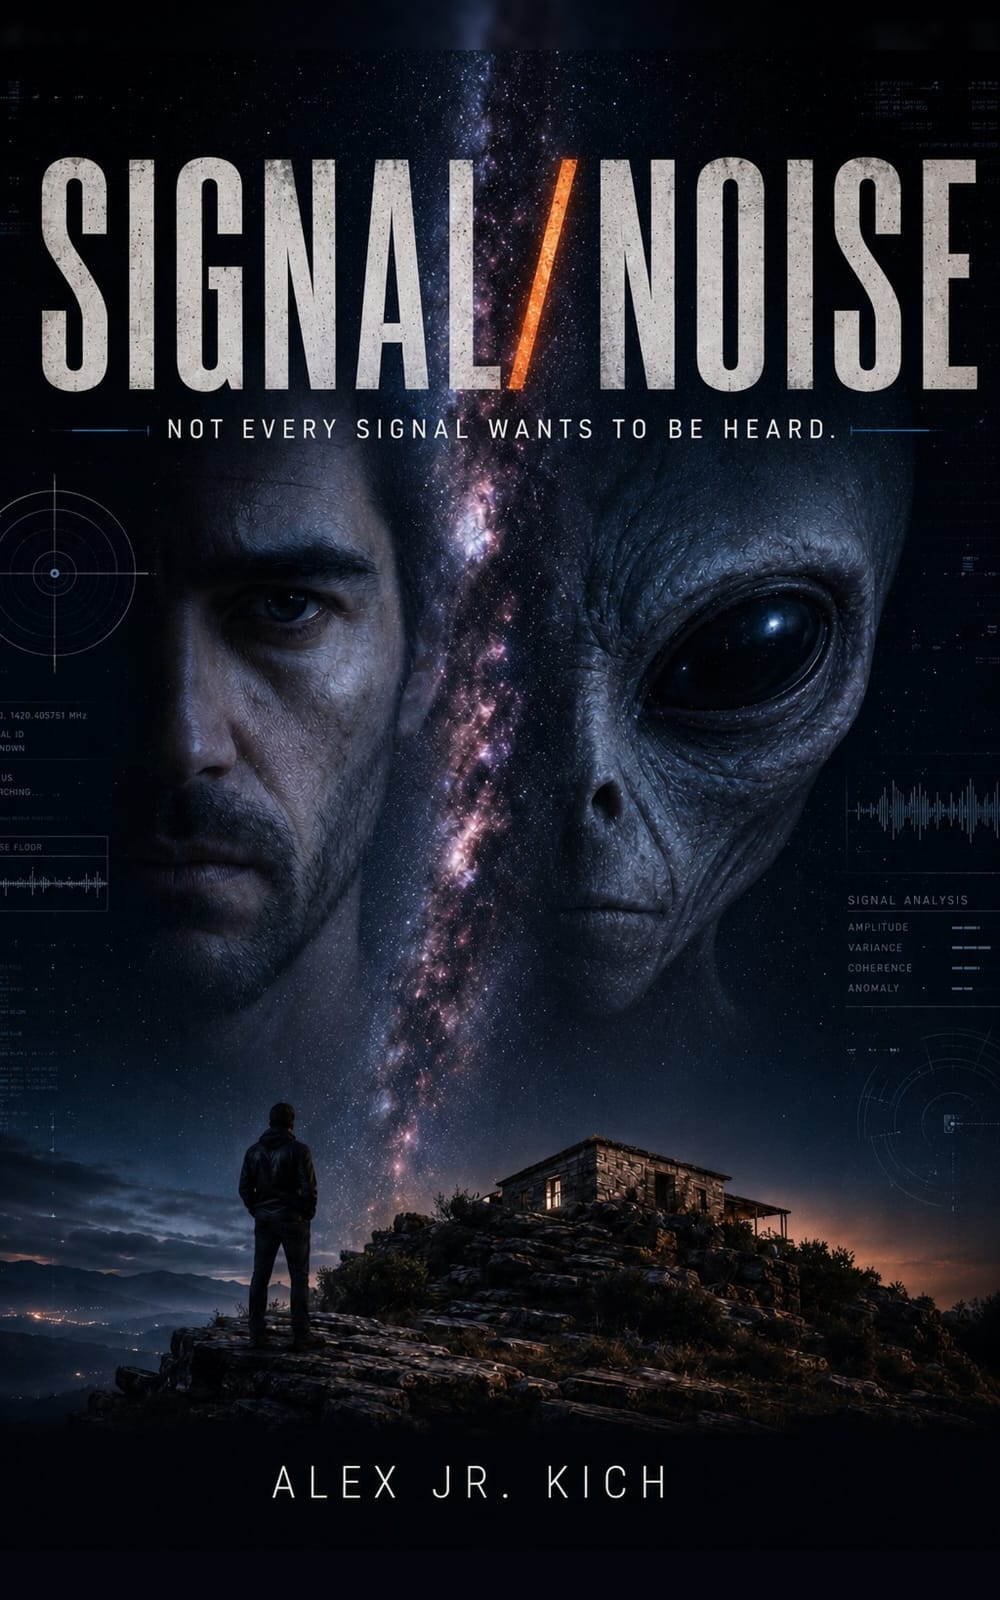
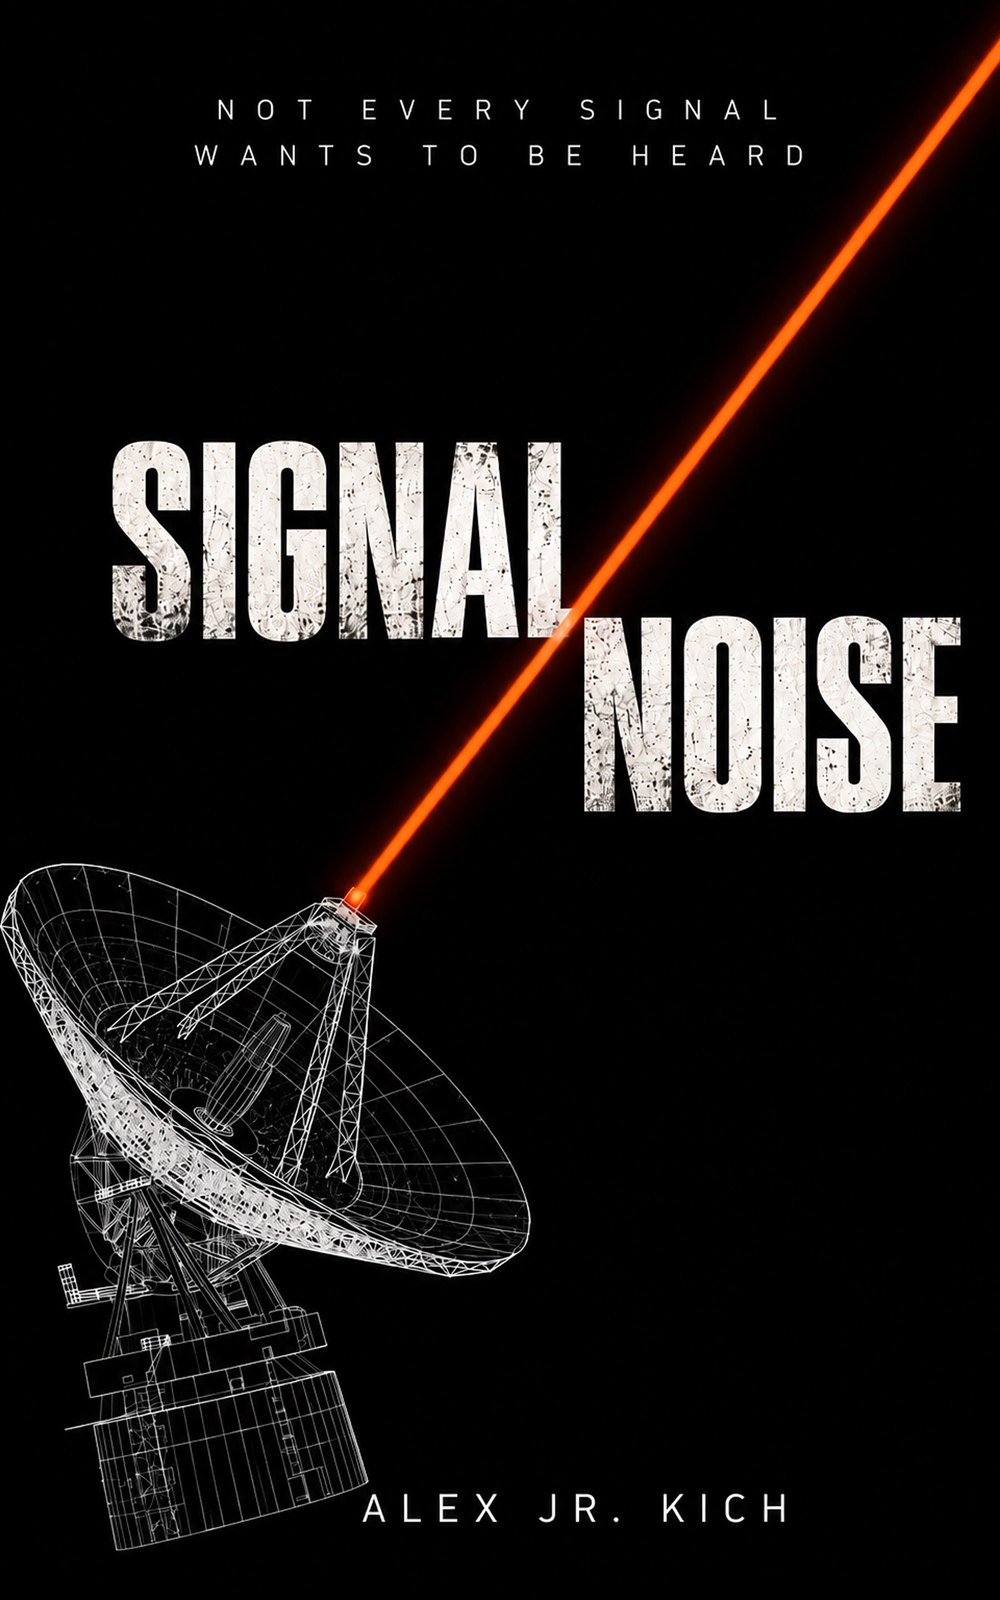
Usa a nova capa internacional (SIGNAL/NOISE) em capa-en.jpg

diff --git a/INTERNATIONAL-SITE-RECON.md b/INTERNATIONAL-SITE-RECON.md
@@ -614,3 +614,17 @@ Arquivo único, 1149x1368, exportado do WhatsApp (compressão do aplicativo). Se
 4. Confirmar a foto do autor (definitiva? original em alta? crédito?).
 5. Apagar a pasta residual `SINAL_RUIDO_WEB_DINAMICO_COMENTARIOS/` (autor).
 6. Os quatro arquivos de "A Última Testemunha" seguem fora dos commits.
+
+## N. Capa internacional recebida (2026-09-25)
+
+| Item | Situação |
+|---|---|
+| Arquivo | `F:\SINAL_RUIDO\sinal final\DIGITAL_BOOK_COVER.jpg`, 1600x2560, 696 KB, 09-25 11:53 |
+| Conteúdo | "SIGNAL NOISE", lema "Not every signal wants to be heard", "Alex Jr. Kich", radiotelescópio e feixe laranja |
+| Diferença para a anterior | Arte nova (hash distinto de `capa-en.jpg` de 09-14 e de `capa sinal.jpeg` de 09-23) |
+| Uso no site | Reduzida para 1000x1600 (191 KB, mesma proporção 0,625) e gravada em `public/livro/capa-en.jpg`, o caminho que o `_middleware.js` já usa para visitantes de fora do Brasil. Nenhuma página HTML mudou |
+| Master | Permanece em `sinal final/`; não foi copiada para o projeto |
+
+Substitui a lista da seção F.3: a capa internacional vigente é esta.
+
+Manuscrito em inglês: ainda em tradução pelo autor (edição de 38 capítulos). Continuam sem uso o manuscrito KDP de 45 capítulos e a amostra em inglês antiga (`/livro/sample/`, `noindex`), que segue publicada e desatualizada até decisão do autor.
